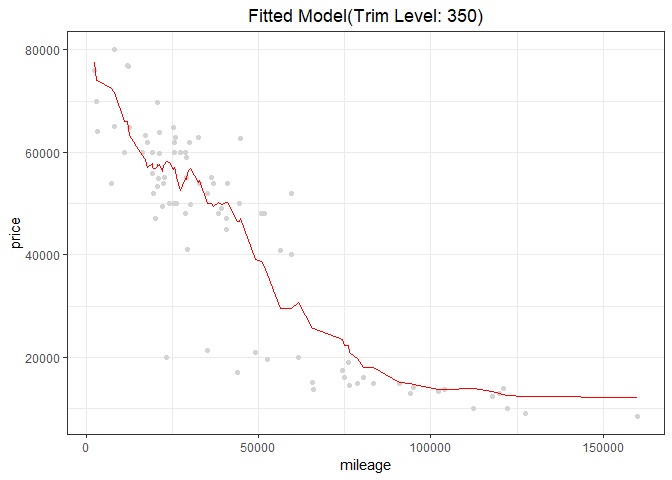
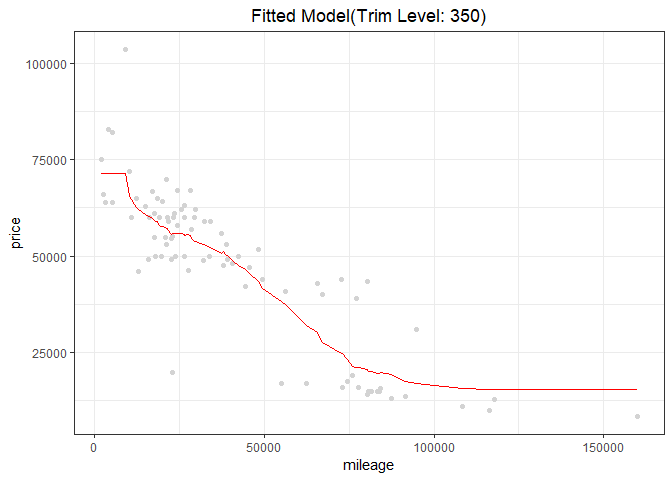
Testing 9

diff --git a/HW1/Report/Exercise_1_Report.md b/HW1/Report/Exercise_1_Report.md
@@ -22,11 +22,11 @@ We splited the data into a training and a testing set. There are 80% of the data
 
 The optimal K for trim level 350 is printed below:
 
-    ## [1] 22
+    ## [1] 79
 
 Since the traning set is chosen randomly, if we run the KNN for several times, we will get different result. But generally, we can get the optimal K for trim level 350 is about 19. Then for the optimal value of K in this one running, a plot of the fitted modelis shown below:
 
-    ## [1] 9637.687
+    ## [1] 9457.246
 
 <img src="Exercise_1_Report_files/figure-markdown_github/s350p_optimalplot-1.png" style="display: block; margin: auto;" />
 
@@ -36,12 +36,14 @@ Second, we run the KNN models for the trim level of 65 AMG similarly. Here is th
 
 We splited the data into a training and a testing set. There are 80% of the data are in the training set. Then we run the K-nearest-neighbors, for many different values of K, starting at K=3 and going as high as the sample size. For each value of K, fit the model to the training set and make predictions on the test set, and calculate the out-of-sample root mean-squared error (RMSE) for each value of K. The plot of K versus RSME is showed below:
 
+<img src="Exercise_1_Report_files/figure-markdown_github/s65AMGp_KNNplot-1.png" style="display: block; margin: auto;" />
+
 The optimal K for trim level 65 AMG is printed below:
 
-    ## [1] 10
+    ## [1] 20
 
 Since the traning set is chosen randomly, if we run the KNN for several times, we will get different result. But generally, we can get the optimal K for trim level 65 AMG is about 16. Then for the optimal value of K in this one running, a plot of the fitted modelis shown below:
 
-    ## [1] 24631.32
+    ## [1] 23117.32
 
 <img src="Exercise_1_Report_files/figure-markdown_github/s65p_optimalplot-1.png" style="display: block; margin: auto;" />
